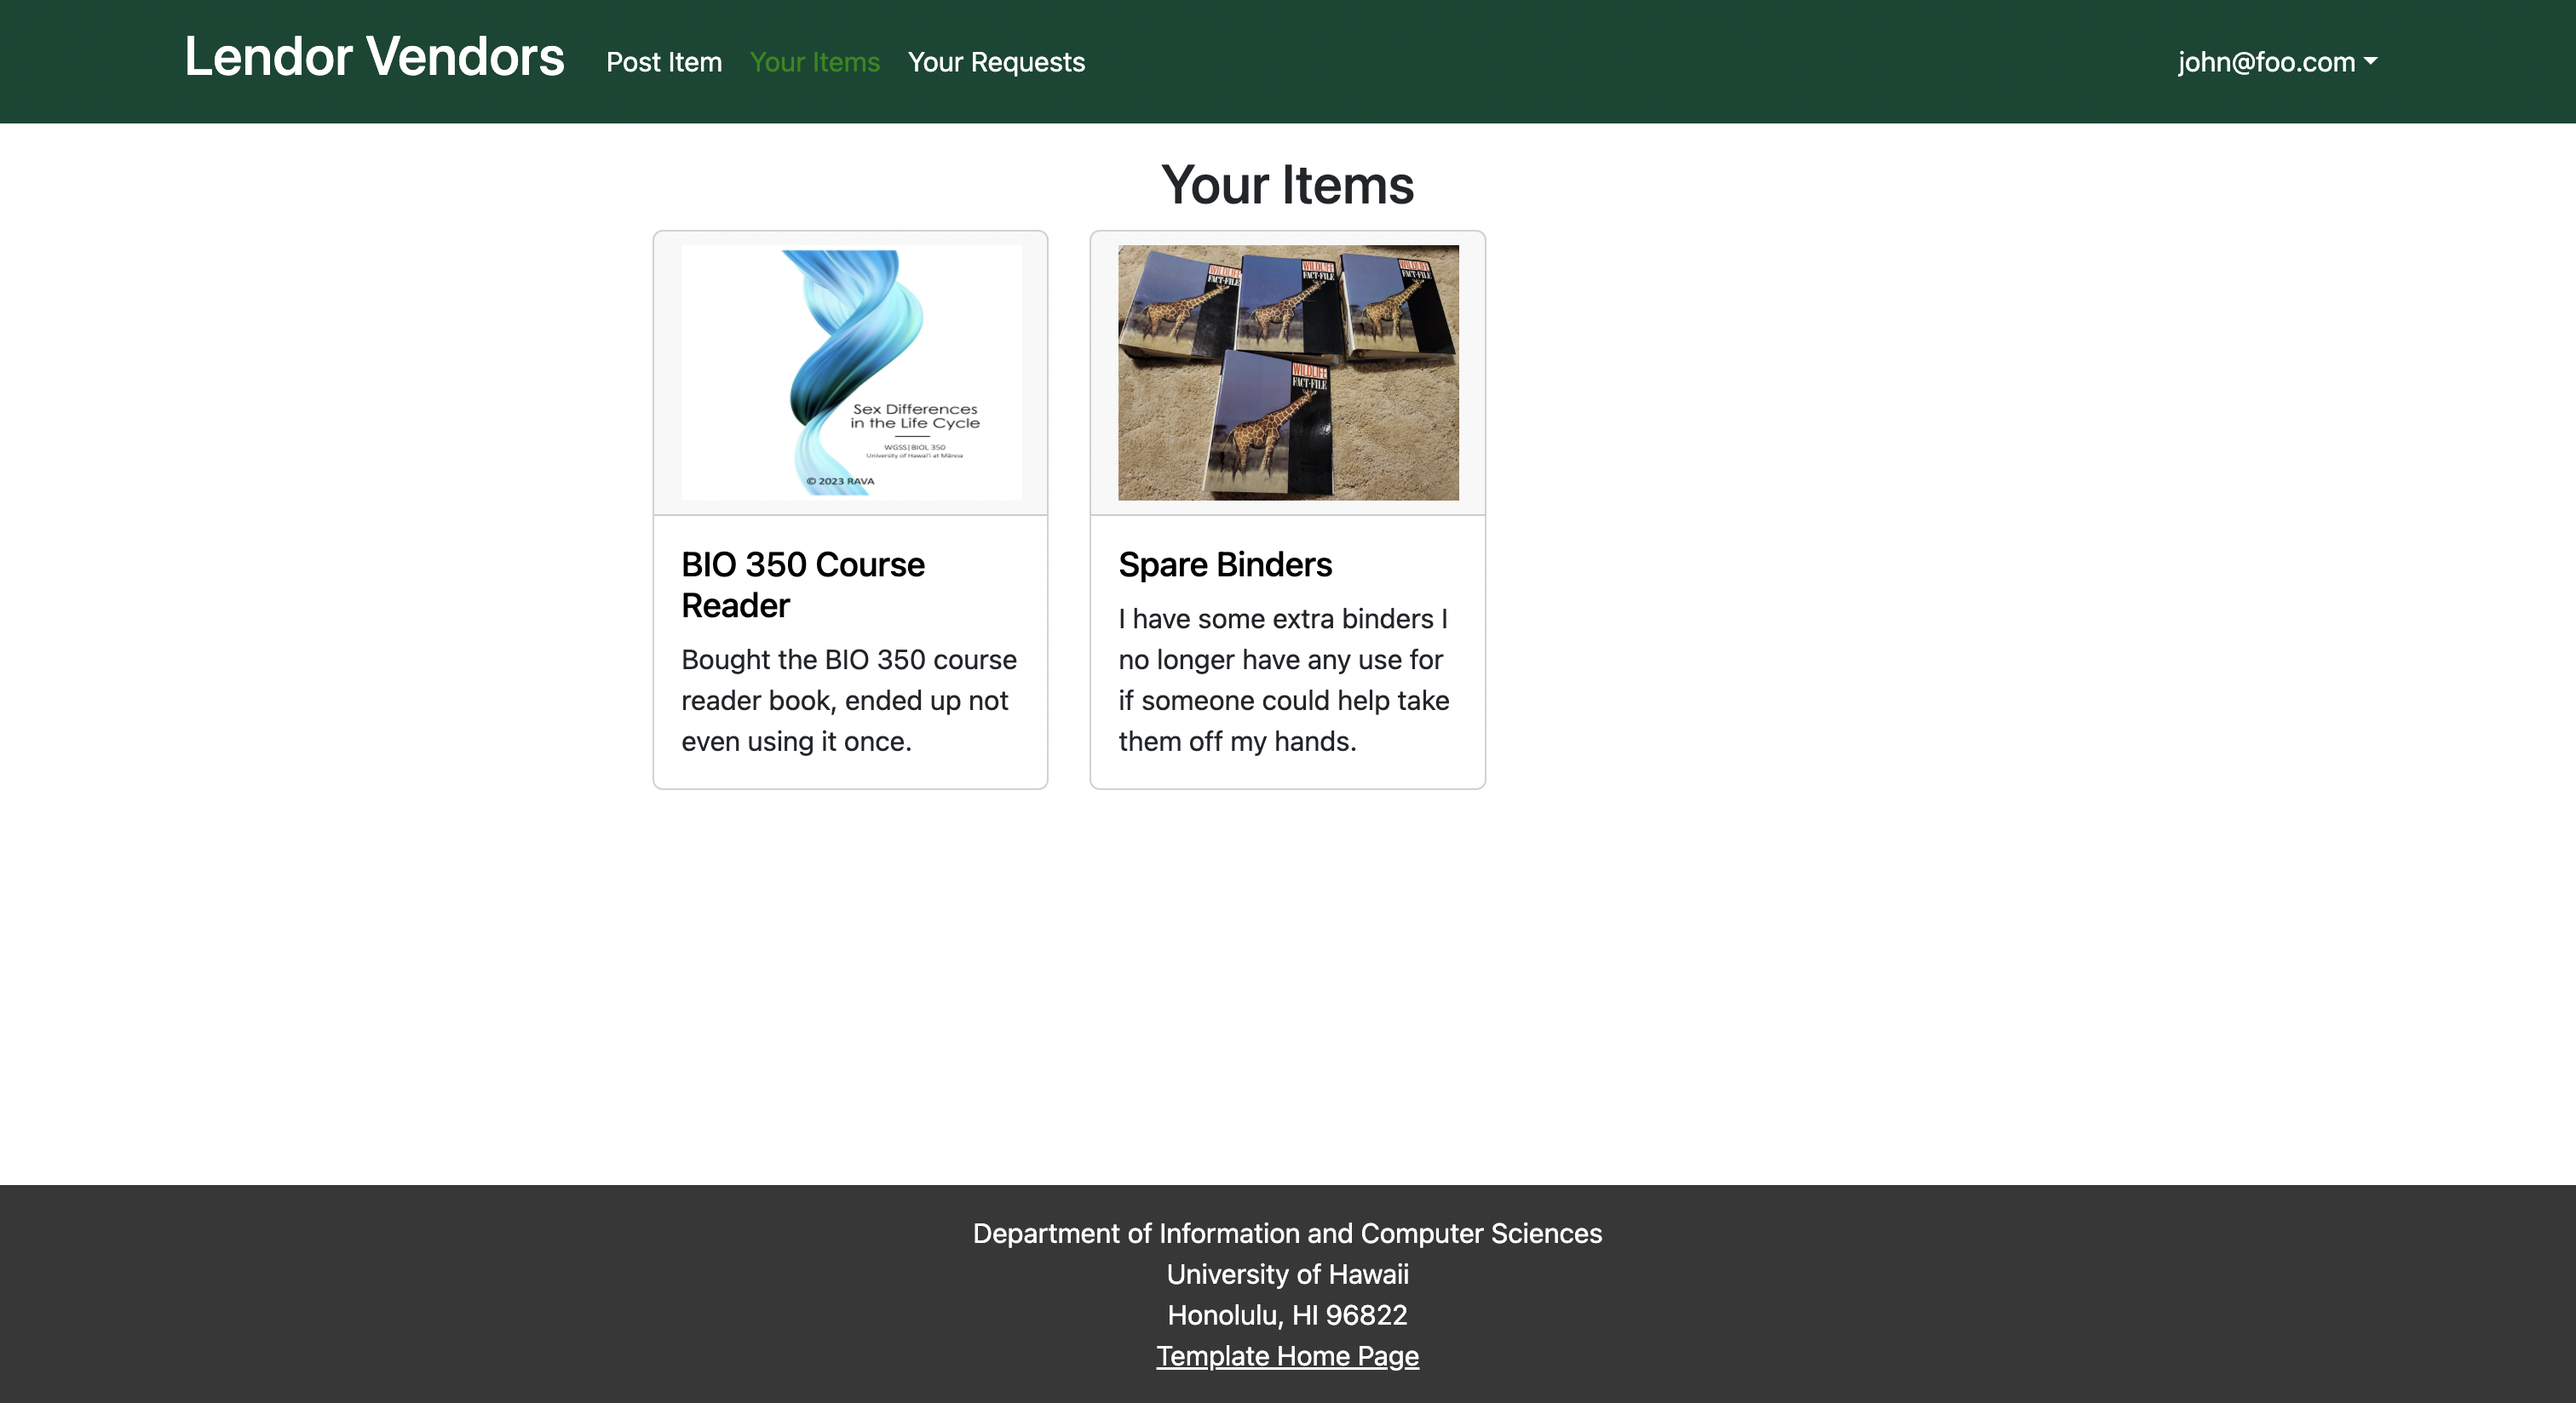
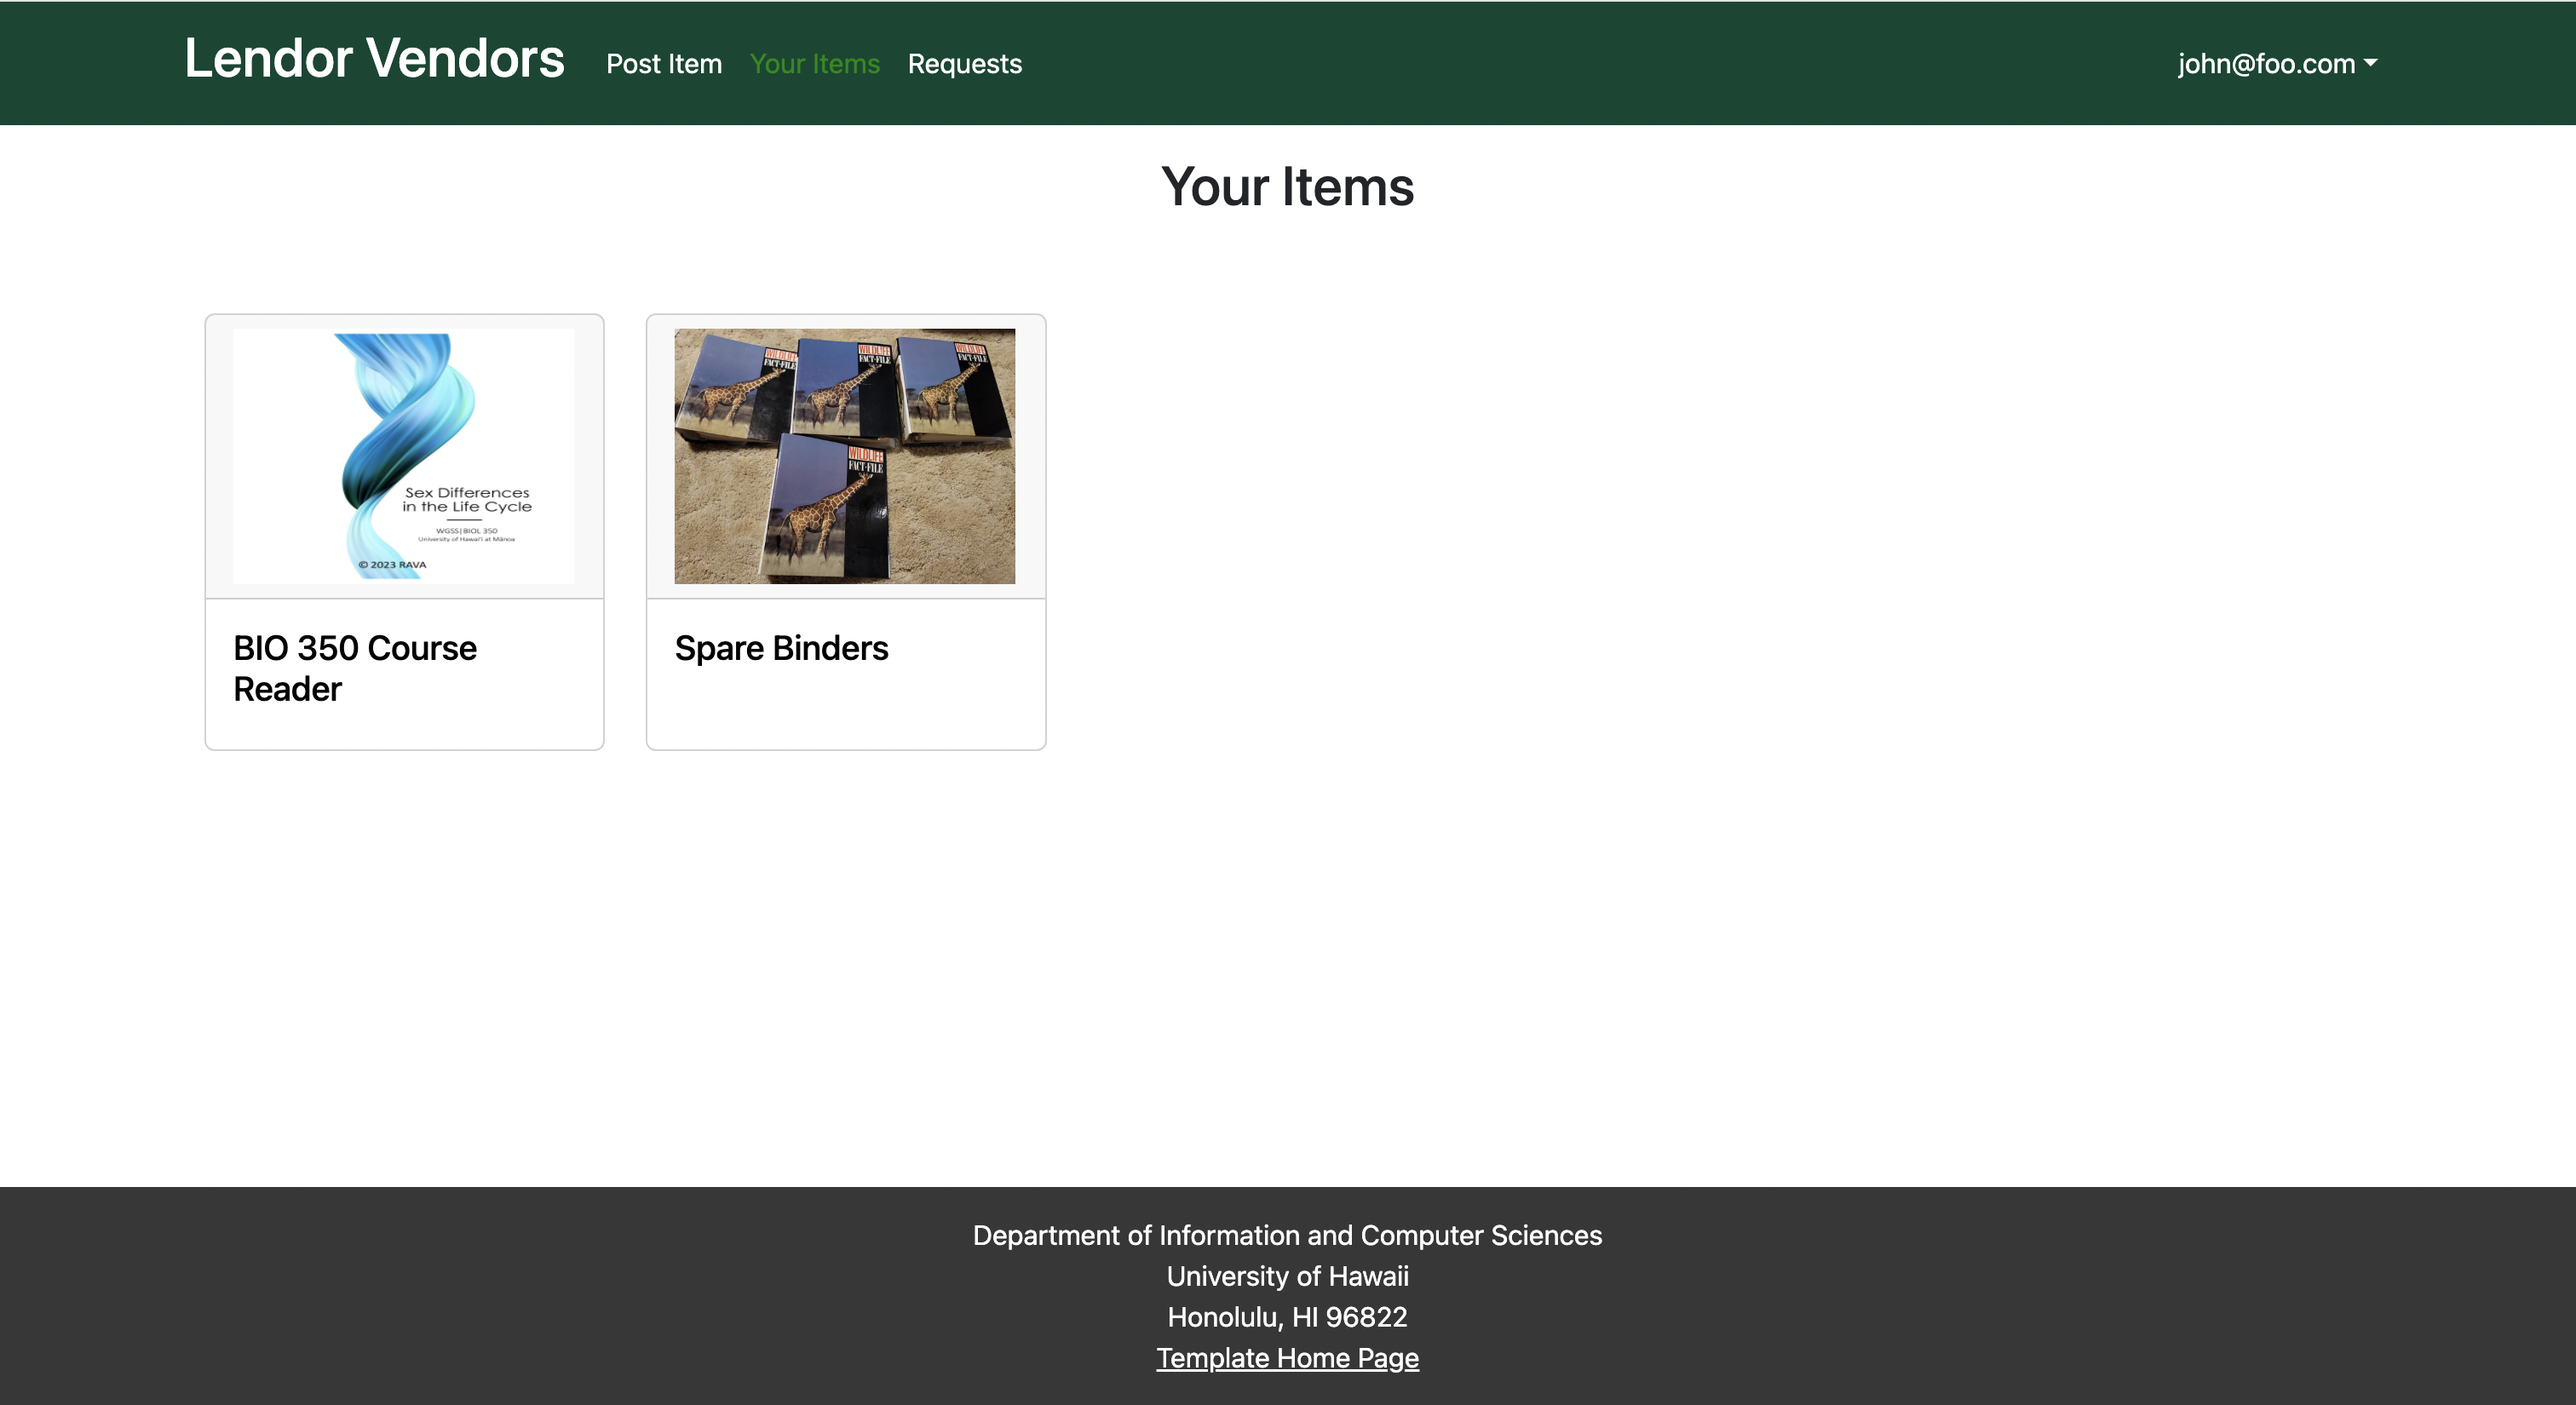
Updated screenshots and made corrections to links

diff --git a/index.md b/index.md
@@ -51,10 +51,15 @@ The request item page is where users can request to borrow other users' items.
 
 ![](doc/requestItem.png)
 
+### Requests Page
+The Requests page shows you all the incoming requests you have for your items, as well as any outgoing requests you have made for others' items.
+
+![](doc/viewRequests.png)
+
 ### Fulfill Request
 The fulfill request page is where users can fulfill other users' requests to borrow their items.
 
-![](doc/fulfillItem.jpg)
+![](doc/requestDetails.png)
 
 ### Rate Items and Users
 Users can rate items that they have borrowed before, to let others know how good it was to use, as well as add comments to the rating.
@@ -111,7 +116,7 @@ For M2, we plan on styling the landing page, as well as other main pages, creati
 Our M2 Project Page can be found [here](https://github.com/orgs/lendor-vendors/projects/6).
 
 ## Deployment
-This project is deployed at [](http://159.223.203.208/)
+This project is deployed [here](http://159.223.203.208/).
 ## Contact Us
 ### Developers
 * [Jiawen Chen](https://jchen20-1.github.io/)
